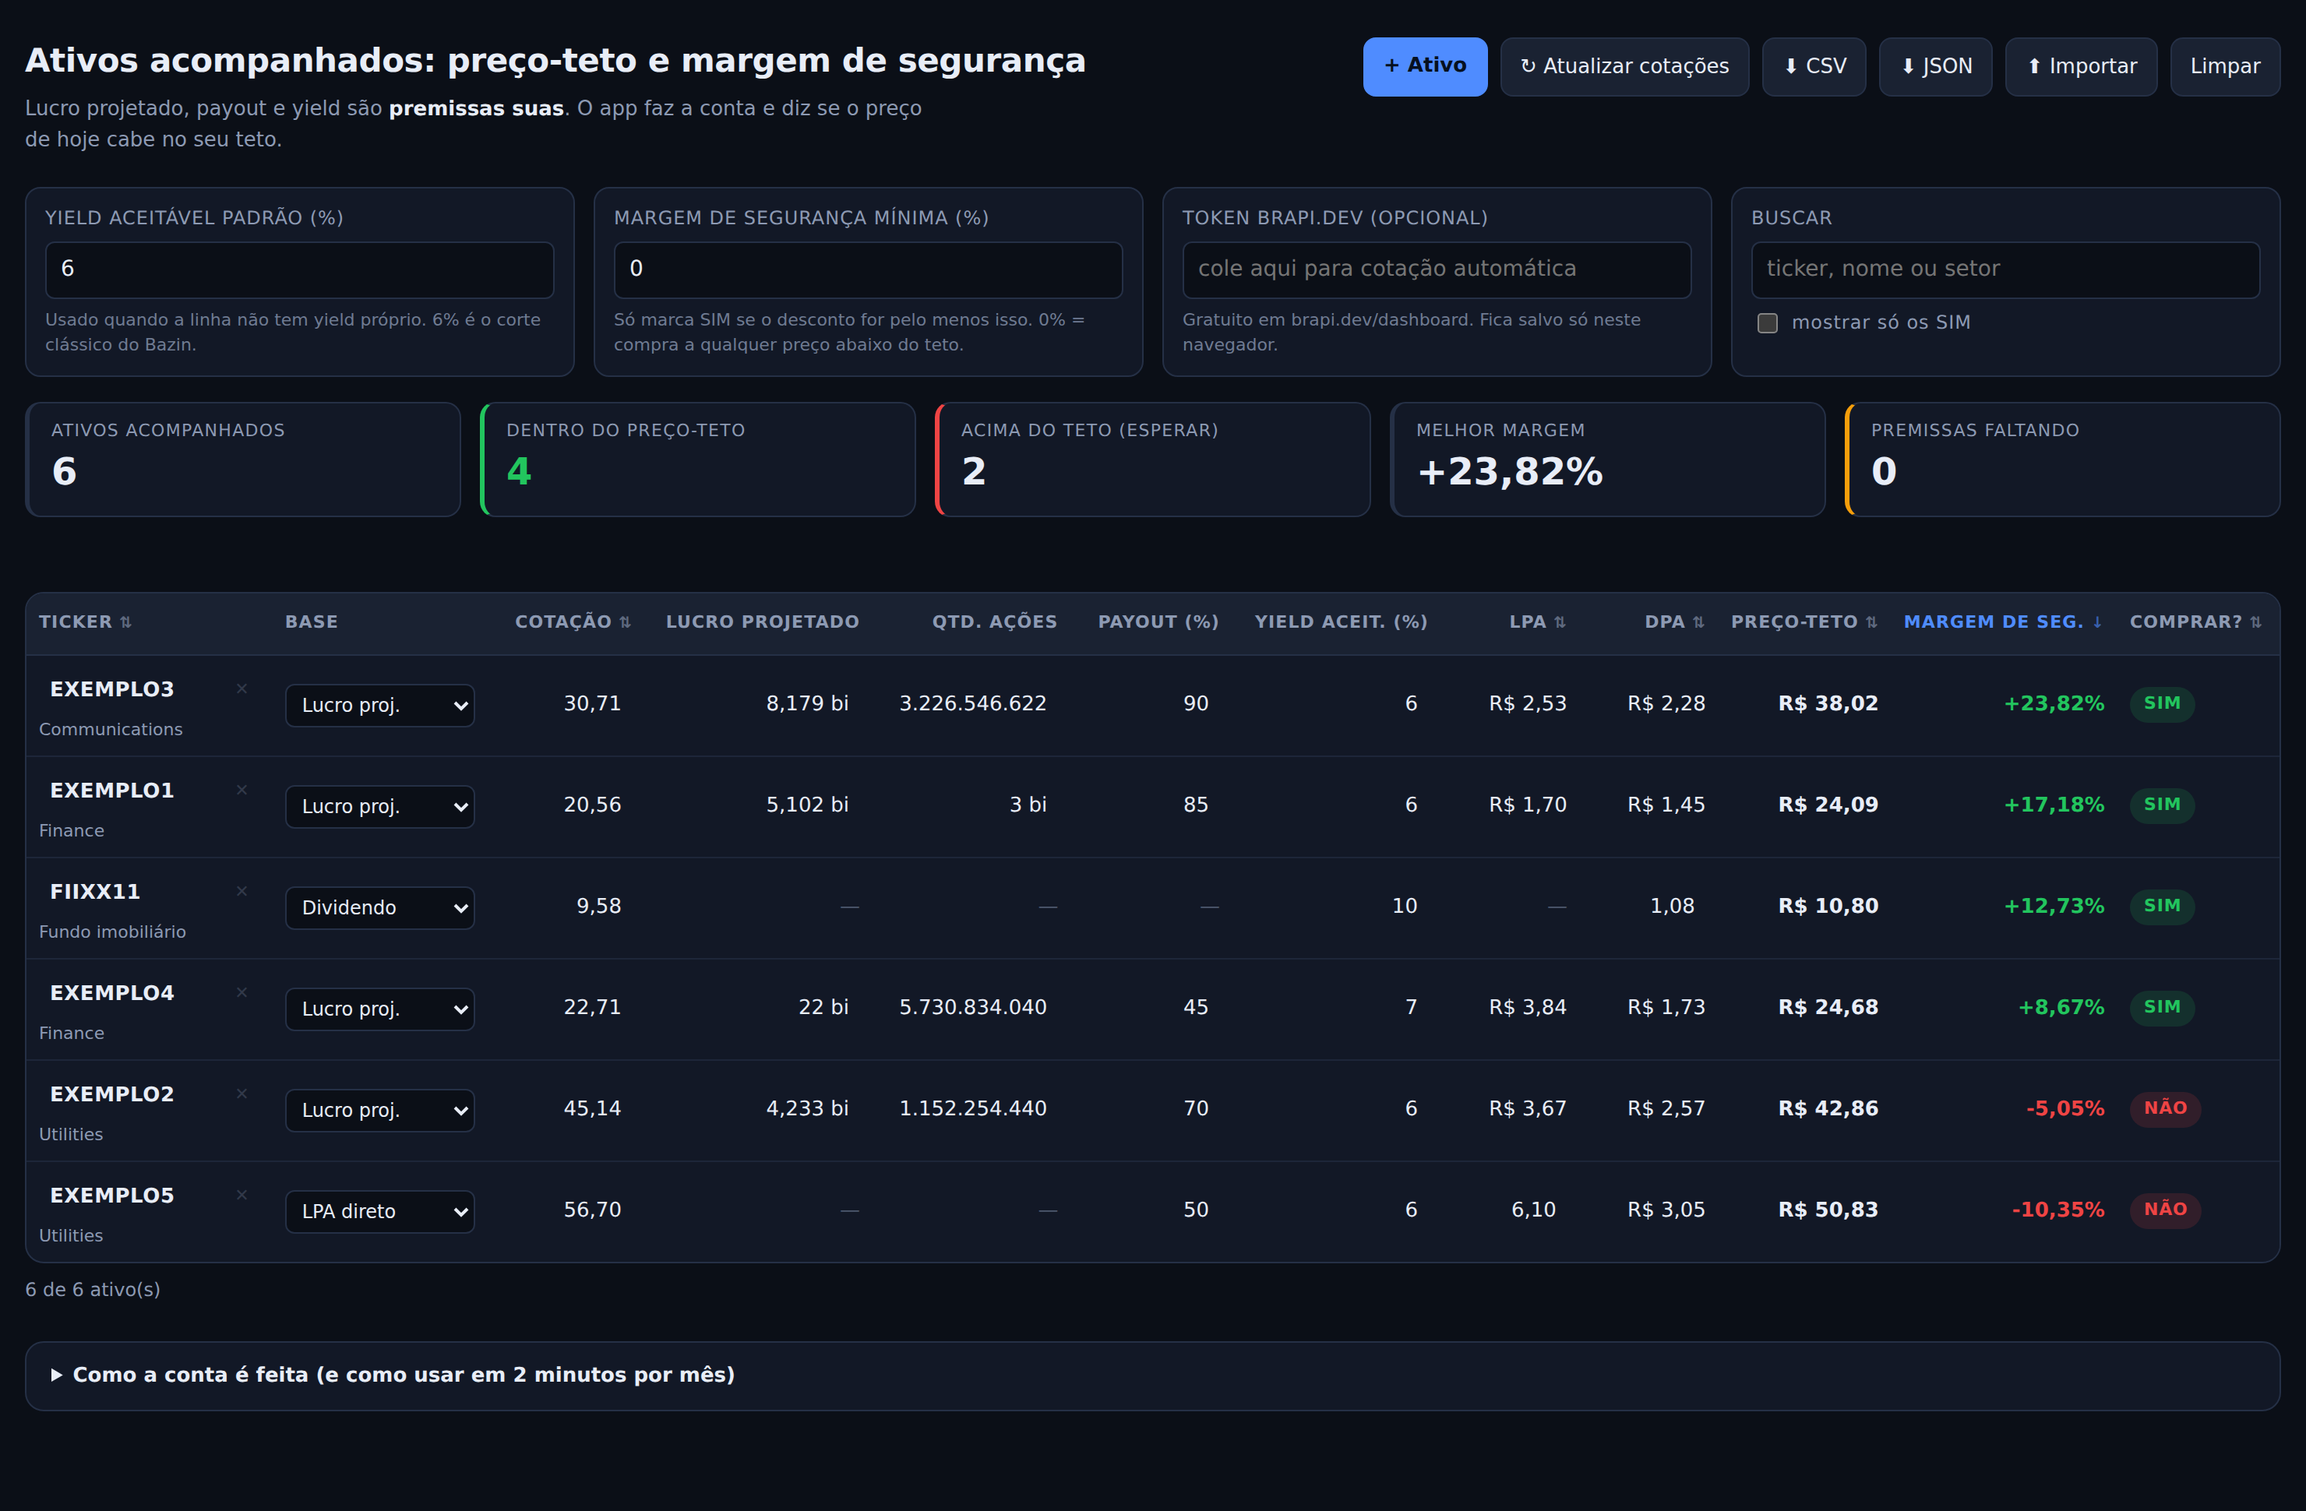
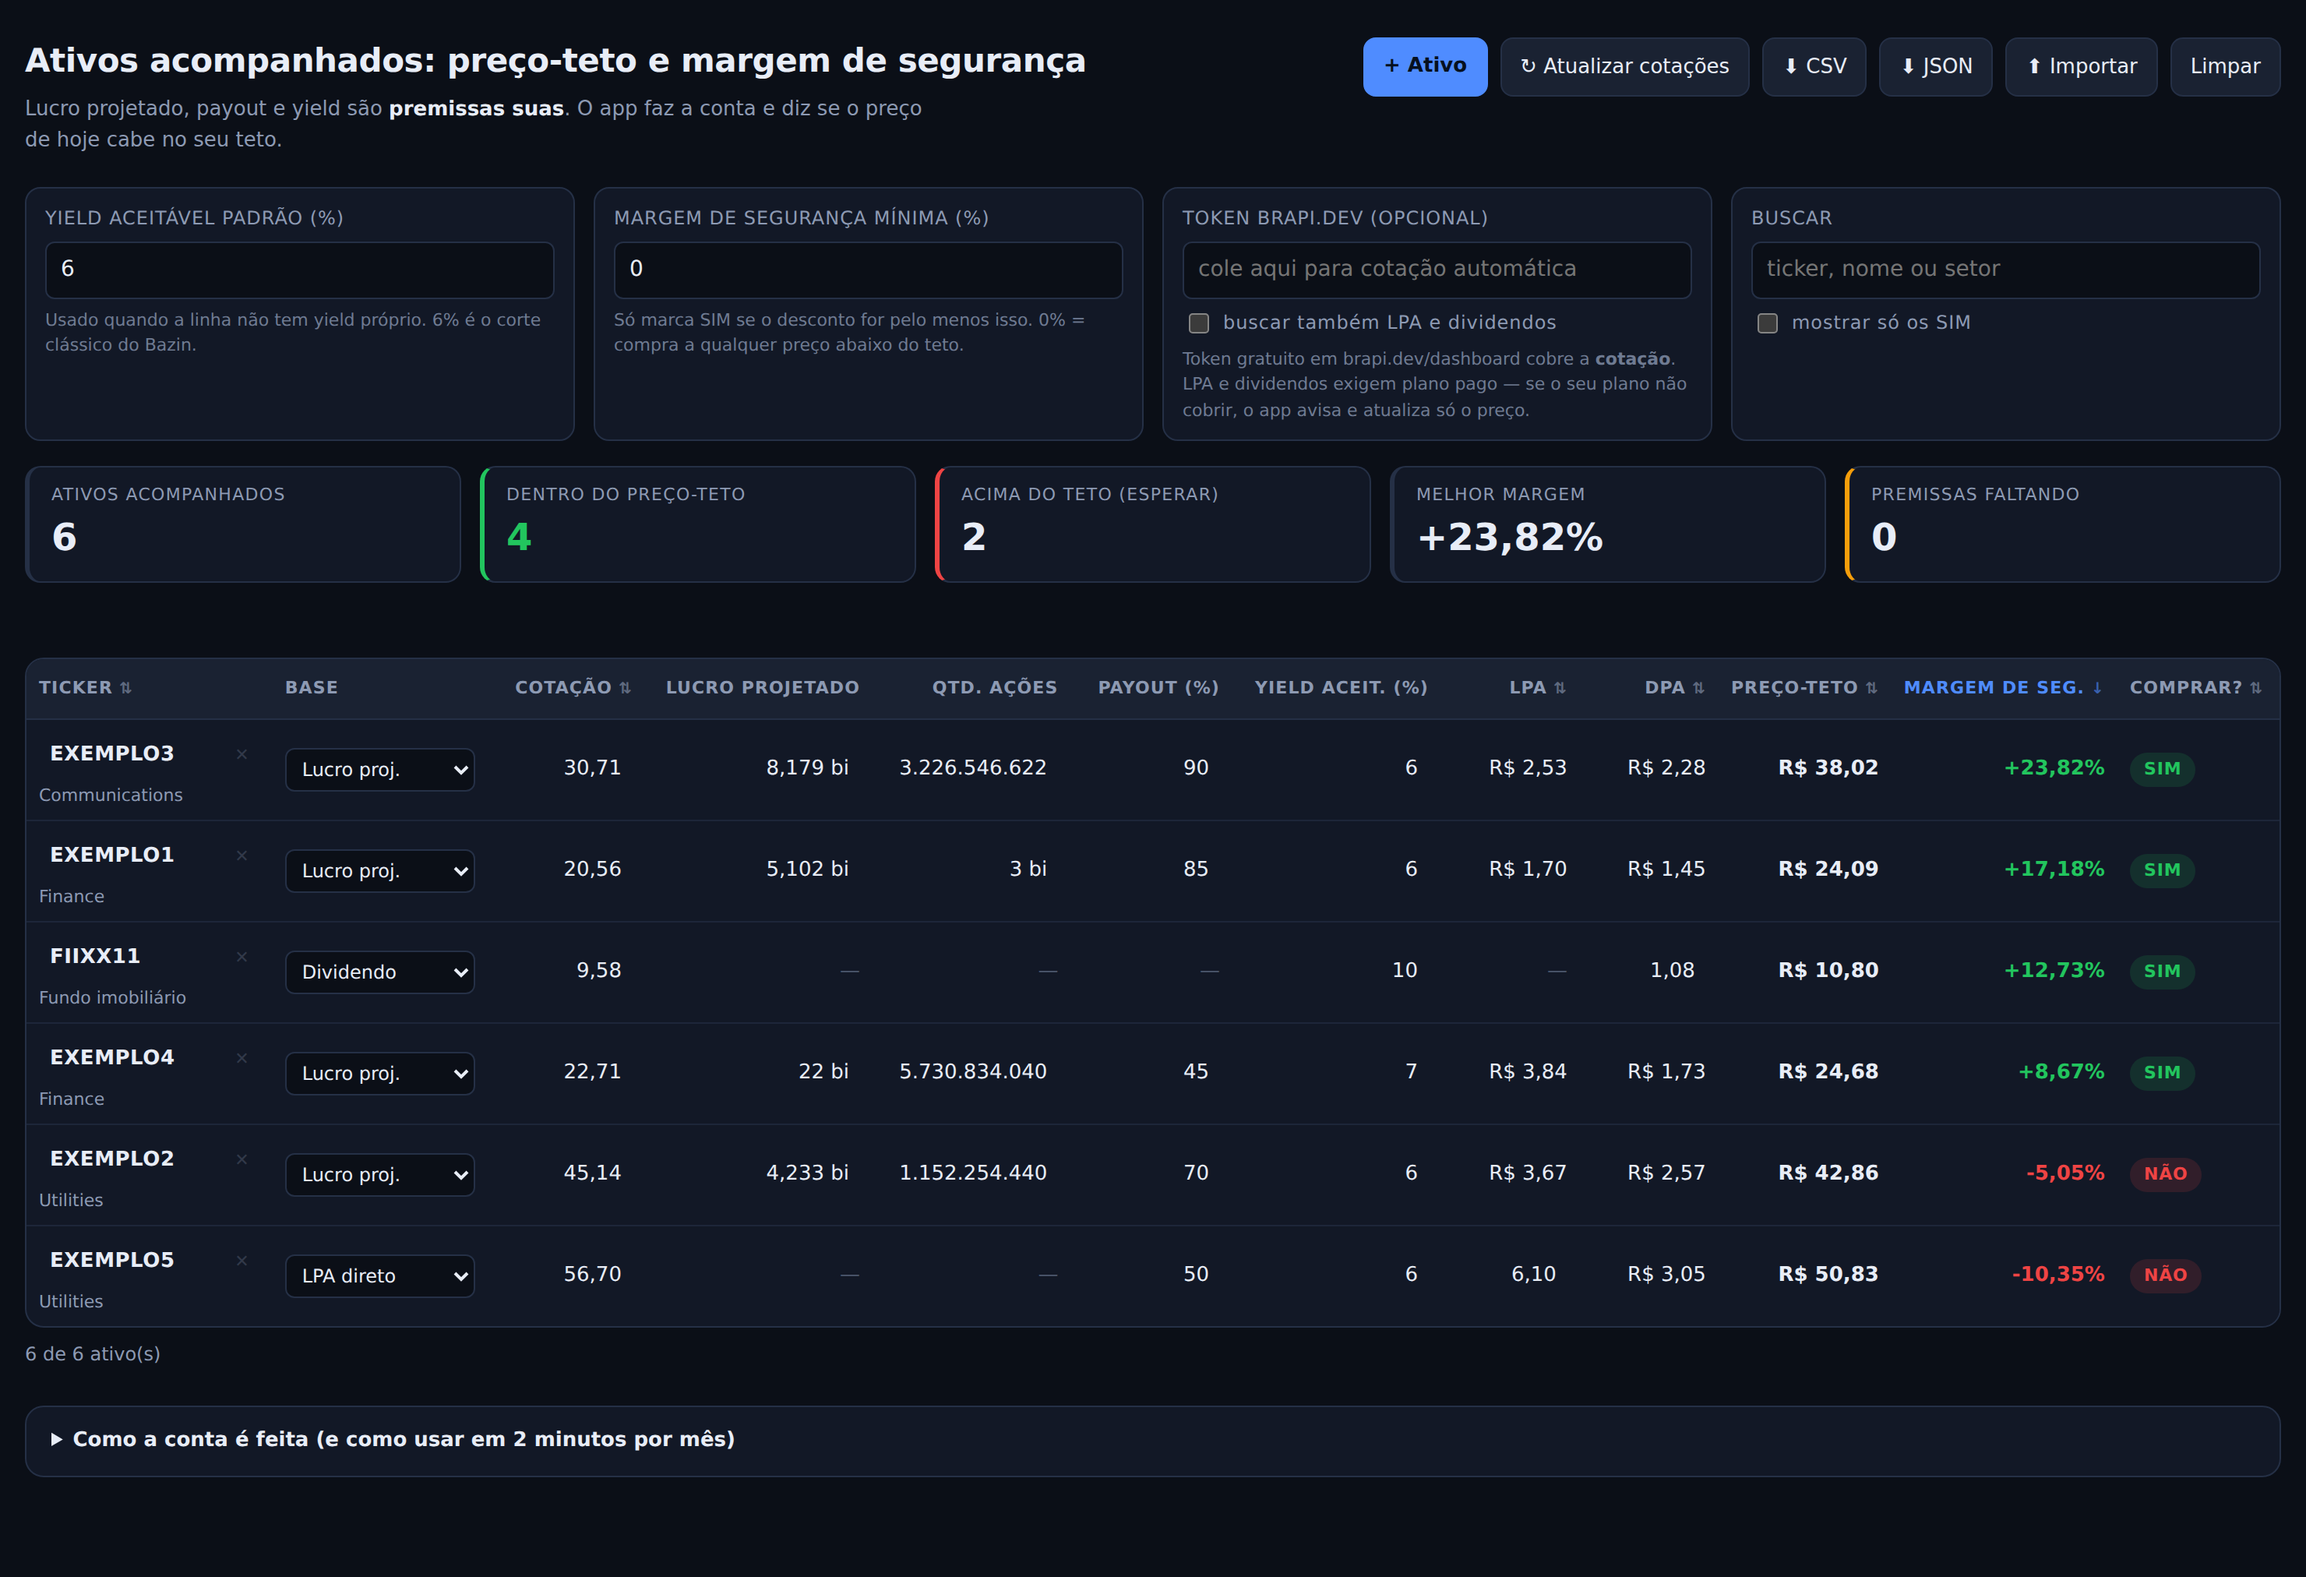
Torna a busca de fundamentos opcional e à prova de plano gratuito
Os módulos de fundamentos (defaultKeyStatistics) e o histórico de dividendos da
brapi são de plano pago. Pedi-los junto derrubava a requisição inteira com 403,
levando embora também a cotação, que é gratuita.

- fundamentos passam a ser opt-in (caixa na configuração, desmarcada por padrão)
- quando a chamada com módulos é recusada por plano (401/402/403), refaz sem
  módulos para preservar a cotação e avisa na tela, sem repetir o aviso por lote
- mensagens de erro distinguem token inválido de limitação de plano
- --fundamentos no atualizador de linha de comando
- README documenta o que cada plano cobre e de onde vem cada dado (CVM como
  fonte primária; lucro projetado não existe em API gratuita)
- 16 testes novos para a camada de cotação e 2 verificações de interface

Claude-Session: https://claude.ai/code/session_017AhskhMrFGTcoZYypaDFch

diff --git a/assets/quotes.js b/assets/quotes.js
@@ -4,6 +4,13 @@
  * A chamada acontece no navegador do usuário, direto para a brapi. O token
  * gratuito (brapi.dev/dashboard) fica salvo apenas no localStorage da máquina.
  * Se a busca falhar, o app continua funcionando com preços digitados à mão.
+ *
+ * Importante sobre planos: a cotação está no plano gratuito, mas os módulos de
+ * fundamentos (defaultKeyStatistics) e o histórico de dividendos são de planos
+ * pagos. Por isso os fundamentos são opcionais: quando a consulta com módulos é
+ * recusada, refazemos a chamada só com o preço, para não perder a atualização.
+ * Exceção documentada pela brapi: PETR4, MGLU3, VALE3 e ITUB4 têm acesso total
+ * sem token, o que serve para testar a integração.
  */
 (function (root, factory) {
   const api = factory();
@@ -22,9 +29,12 @@
     return lotes;
   };
 
+  const STATUS_DE_PLANO = [401, 402, 403];
+
   function mensagemDeErro(status) {
-    if (status === 401 || status === 403) return 'Token inválido ou ausente (pegue um grátis em brapi.dev).';
-    if (status === 402 || status === 429) return 'Limite do plano gratuito atingido. Tente de novo mais tarde.';
+    if (status === 401) return 'Token inválido ou ausente (pegue um grátis em brapi.dev).';
+    if (status === 403) return 'Seu plano não cobre esses dados (a cotação é gratuita; fundamentos são pagos).';
+    if (status === 402 || status === 429) return 'Limite do plano atingido. Tente de novo mais tarde.';
     if (status === 404) return 'Ticker não encontrado na B3.';
     return `Falha na consulta (HTTP ${status}).`;
   }
@@ -59,35 +69,60 @@
     };
   }
 
+  function montarUrl(lote, token, comFundamentos) {
+    const params = new URLSearchParams();
+    if (comFundamentos) {
+      params.set('modules', MODULOS);
+      params.set('dividends', 'true');
+    }
+    if (token) params.set('token', token);
+    const consulta = params.toString();
+    return `${BASE}${lote.join(',')}${consulta ? `?${consulta}` : ''}`;
+  }
+
   /**
    * @param {string[]} tickers
-   * @param {{token?: string, fetchImpl?: Function}} opcoes
-   * @returns {Promise<{dados: Object<string, object>, erros: Object<string, string>}>}
+   * @param {{token?: string, fundamentos?: boolean, fetchImpl?: Function}} opcoes
+   *   fundamentos: pede LPA/dividendos junto (exige plano pago, exceto nos tickers de teste).
+   * @returns {Promise<{dados: Object, erros: Object, avisos: string[]}>}
    */
   async function buscarCotacoes(tickers, opcoes) {
-    const { token, fetchImpl } = opcoes || {};
+    const { token, fetchImpl, fundamentos = false } = opcoes || {};
     const http = fetchImpl || (typeof fetch === 'function' ? fetch.bind(globalThis) : null);
     if (!http) throw new Error('fetch indisponível neste ambiente.');
 
     const limpos = [...new Set((tickers || []).map((t) => String(t || '').trim().toUpperCase()).filter(Boolean))];
     const dados = {};
     const erros = {};
+    const avisos = new Set();
+
+    const pedir = async (lote, comFundamentos) => {
+      const resposta = await http(montarUrl(lote, token, comFundamentos), { headers: { Accept: 'application/json' } });
+      if (!resposta.ok) return { status: resposta.status };
+      const corpo = await resposta.json();
+      return { resultados: Array.isArray(corpo.results) ? corpo.results : [] };
+    };
 
     for (const lote of dividirEmLotes(limpos, LOTE)) {
-      const params = new URLSearchParams({ modules: MODULOS, dividends: 'true' });
-      if (token) params.set('token', token);
-      const url = `${BASE}${lote.join(',')}?${params}`;
-
       try {
-        const resposta = await http(url, { headers: { Accept: 'application/json' } });
-        if (!resposta.ok) {
-          const motivo = mensagemDeErro(resposta.status);
+        let retorno = await pedir(lote, fundamentos);
+
+        // Plano sem direito aos módulos: refaz a chamada só com o preço.
+        if (retorno.status && fundamentos && STATUS_DE_PLANO.includes(retorno.status)) {
+          const semModulos = await pedir(lote, false);
+          if (semModulos.resultados) {
+            avisos.add('Fundamentos não liberados no seu plano da brapi — só a cotação foi atualizada.');
+            retorno = semModulos;
+          }
+        }
+
+        if (retorno.status) {
+          const motivo = mensagemDeErro(retorno.status);
           lote.forEach((t) => { erros[t] = motivo; });
           continue;
         }
-        const corpo = await resposta.json();
-        const resultados = Array.isArray(corpo.results) ? corpo.results : [];
-        resultados.forEach((r) => {
+
+        retorno.resultados.forEach((r) => {
           const normalizado = normalizar(r);
           if (normalizado.ticker) dados[normalizado.ticker] = normalizado;
         });
@@ -100,7 +135,7 @@
       }
     }
 
-    return { dados, erros };
+    return { dados, erros, avisos: [...avisos] };
   }
 
   return { buscarCotacoes, somarProventos12m, normalizar, mensagemDeErro, LOTE };

diff --git a/assets/app.js b/assets/app.js
@@ -273,7 +273,10 @@
     status(`Consultando ${tickers.length} ticker(s) na brapi.dev…`);
 
     try {
-      const { dados, erros } = await buscarCotacoes(tickers, { token: estado.config.token });
+      const { dados, erros, avisos } = await buscarCotacoes(tickers, {
+        token: estado.config.token,
+        fundamentos: !!estado.config.fundamentos,
+      });
       let atualizados = 0;
       estado.ativos.forEach((ativo) => {
         const info = dados[String(ativo.ticker || '').toUpperCase()];
@@ -296,11 +299,13 @@
 
       render();
       const listaErros = Object.entries(erros);
+      const extra = (avisos || []).join(' ');
       if (!listaErros.length) {
-        status(`${atualizados} ativo(s) atualizados em ${new Date().toLocaleString('pt-BR')}.`, 'ok');
+        const quando = new Date().toLocaleString('pt-BR');
+        status(`${atualizados} ativo(s) atualizados em ${quando}. ${extra}`.trim(), extra ? 'alerta' : 'ok');
       } else {
         const resumoErros = [...new Set(listaErros.map(([, motivo]) => motivo))].join(' ');
-        status(`${atualizados} atualizados. ${listaErros.length} com problema: ${resumoErros}`, 'alerta');
+        status(`${atualizados} atualizados. ${listaErros.length} com problema: ${resumoErros} ${extra}`.trim(), 'alerta');
       }
     } catch (erro) {
       status(`Não foi possível buscar cotações: ${erro.message}. Digite os preços à mão.`, 'erro');
@@ -378,6 +383,7 @@
     el('#token').value = estado.config.token ?? '';
     el('#busca').value = estado.config.busca ?? '';
     el('#somente-comprar').checked = !!estado.config.somenteComprar;
+    el('#fundamentos').checked = !!estado.config.fundamentos;
   }
 
   function ligarEventos() {
@@ -469,6 +475,10 @@
     el('#somente-comprar').addEventListener('change', (evento) => {
       estado.config.somenteComprar = evento.target.checked;
       render();
+    });
+    el('#fundamentos').addEventListener('change', (evento) => {
+      estado.config.fundamentos = evento.target.checked;
+      salvar();
     });
   }
 

diff --git a/index.html b/index.html
@@ -36,7 +36,8 @@
   </label>
   <label>Token brapi.dev (opcional)
     <input id="token" type="password" placeholder="cole aqui para cotação automática" autocomplete="off">
-    <small>Gratuito em brapi.dev/dashboard. Fica salvo só neste navegador.</small>
+    <span class="check"><input type="checkbox" id="fundamentos"> buscar também LPA e dividendos</span>
+    <small>Token gratuito em brapi.dev/dashboard cobre a <strong>cotação</strong>. LPA e dividendos exigem plano pago — se o seu plano não cobrir, o app avisa e atualiza só o preço.</small>
   </label>
   <label class="busca">Buscar
     <input id="busca" placeholder="ticker, nome ou setor">

diff --git a/assets/seed.js b/assets/seed.js
@@ -8,6 +8,8 @@
     yieldPadrao: 6,
     margemMinima: 0,
     token: '',
+    // Fundamentos (LPA e dividendos) são de plano pago na brapi; desligado por padrão.
+    fundamentos: false,
     ordenarPor: 'margem',
     ordemDecrescente: true,
     somenteComprar: false,

diff --git a/README.md b/README.md
@@ -50,10 +50,20 @@ Escolha por ativo, na coluna **Base**:
 
 ## Cotação automática
 
-A busca acontece no seu navegador, direto na brapi.dev. O plano gratuito pede um
-token: crie em [brapi.dev/dashboard](https://brapi.dev/dashboard) e cole no campo
-*Token brapi.dev*. Ele fica salvo somente no seu navegador e nunca é enviado para
-outro lugar.
+A busca acontece no seu navegador, direto na [brapi.dev](https://brapi.dev). O que
+cada plano cobre muda o que o botão consegue preencher:
+
+| Dado | Plano gratuito da brapi |
+| --- | --- |
+| Cotação | ✅ sim (15.000 requisições/mês, com token) |
+| Nome e setor | ✅ sim |
+| LPA (`defaultKeyStatistics`) | ❌ plano pago |
+| Histórico de dividendos | ❌ plano pago |
+| Tudo, em PETR4, MGLU3, VALE3 e ITUB4 | ✅ sim, e sem token — servem para testar |
+
+Por isso a caixa **buscar também LPA e dividendos** vem desmarcada. Quando marcada e
+o plano não cobrir, o app **refaz a chamada só com o preço**, atualiza a cotação e
+avisa na tela — pedir módulo pago derrubaria a requisição inteira, cotação incluída.
 
 Regras da atualização automática:
 
@@ -70,10 +80,31 @@ Se preferir o terminal, exporte o JSON e rode:
 
 ```bash
 node tools/atualizar-cotacoes.mjs carteira-preco-teto-2026-09-17.json --token SEU_TOKEN
+# com fundamentos (plano pago): acrescente --fundamentos
 # ou: BRAPI_TOKEN=... node tools/atualizar-cotacoes.mjs carteira.json
 ```
 
 Depois importe o arquivo de volta pelo botão **⬆ Importar**.
+
+## De onde vêm os dados "corretos"
+
+Cada coluna tem um grau diferente de disponibilidade pública:
+
+| Informação | Onde obter | Situação |
+| --- | --- | --- |
+| Cotação | brapi (grátis), HG Brasil, bolsai | resolvido |
+| LPA / lucro dos últimos 12 meses | CVM (fonte oficial), bolsai, brapi pago, Partnr | disponível, exige plano ou processar CSV |
+| Nº de ações e proventos pagos | CVM (composição do capital), B3, bolsai | disponível |
+| Payout | derivável: proventos ÷ lucro do mesmo período | calculável, não é campo de API |
+| **Lucro projetado** | consenso de analistas (Refinitiv, Bloomberg, corretoras) | **não existe grátis — é premissa sua** |
+
+A fonte primária e gratuita de tudo que é histórico é a própria CVM
+([dados.cvm.gov.br](https://dados.cvm.gov.br/dataset/cia_aberta-doc-dfp) — DFP e ITR
+em CSV, com lucro líquido e composição do capital). As APIs comerciais desta tabela
+são, na prática, essa base da CVM já limpa e indexada por ticker.
+
+O Yahoo Finance não serve para este app: a API é não oficial e exige cookie/crumb,
+o que não funciona a partir do navegador ([referência](https://github.com/gadicc/yahoo-finance2/issues/764)).
 
 ## Formatos aceitos nos campos
 
@@ -84,8 +115,8 @@ Digite como for mais natural — o app entende formato brasileiro e atalhos de e
 ## Testes
 
 ```bash
-npm test          # 20 testes do núcleo de cálculo (node puro, sem dependências)
-npm run test:ui   # 34 verificações na interface com Chromium (precisa de playwright-core)
+npm test          # 36 testes de cálculo e de integração (node puro, sem dependências)
+npm run test:ui   # 36 verificações na interface com Chromium (precisa de playwright-core)
 ```
 
 Os testes de cálculo conferem as linhas da planilha que serviu de referência,
@@ -108,7 +139,7 @@ assets/seed.js                carteira e configuração iniciais
 assets/styles.css             tema escuro, responsivo
 tools/atualizar-cotacoes.mjs  atualizador de preços por linha de comando
 tools/captura.mjs             gera a captura de tela do README
-test/                         testes de cálculo e de interface
+test/                         testes de cálculo, de cotação e de interface
 ```
 
 ## Aviso
